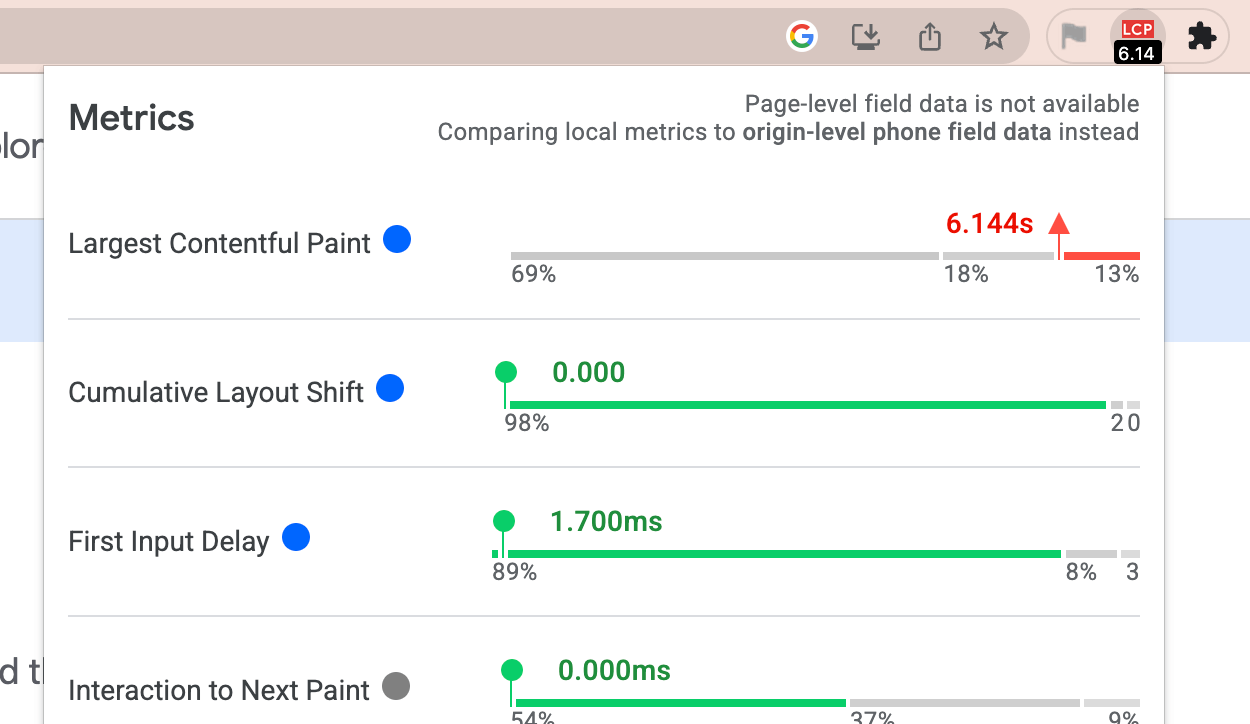
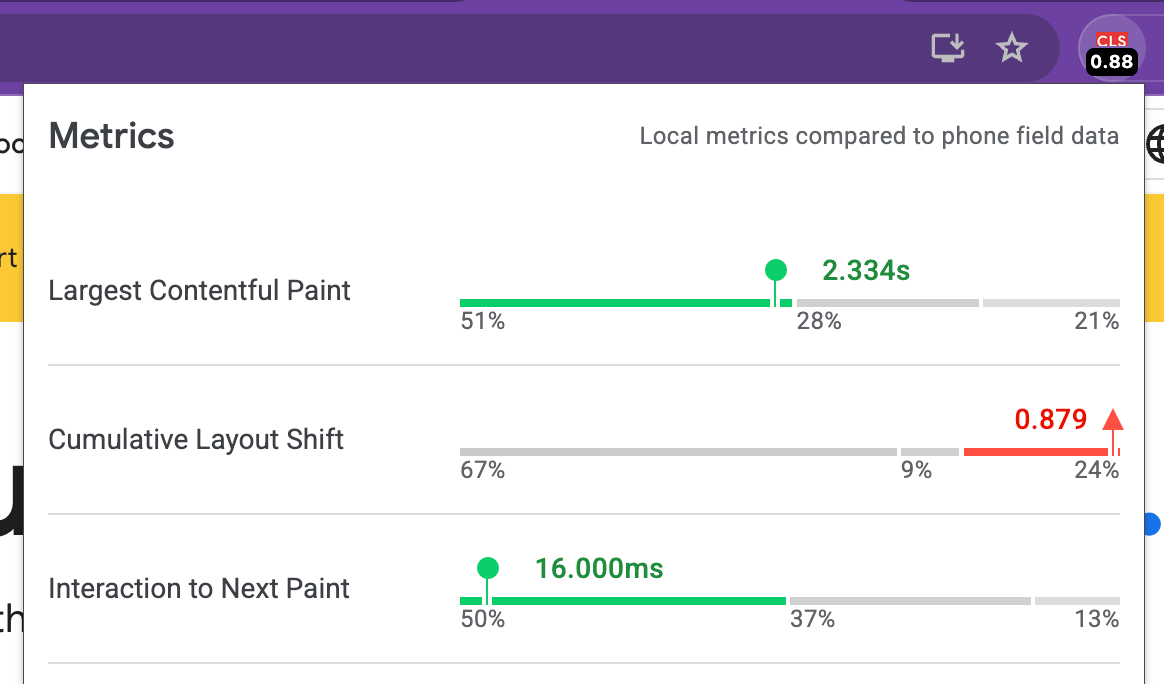
Graduate INP (#169)
* denote INP as CWV

* Apply suggestions from code review

* swap INP/FID in HUD

* slow INP icon

* Apply suggestions from code review

* updated screenshots

---------

diff --git a/src/browser_action/vitals.js b/src/browser_action/vitals.js
@@ -111,13 +111,13 @@
       overallScore = 'POOR';
       metrics.cls.pass = false;
     }
-    if (metrics.fid.value > FID_THRESHOLD) {
-      overallScore = 'POOR';
-      metrics.fid.pass = false;
-    }
     if (metrics.inp.value > INP_THRESHOLD) {
-      // INP does not affect overall score
+      overallScore = 'POOR';
       metrics.inp.pass = false;
+    }
+    if (metrics.fid.value > FID_THRESHOLD) {
+      // FID does not affect overall score
+      metrics.fid.pass = false;
     }
     if (metrics.fcp.value > FCP_THRESHOLD) {
       // FCP does not affect overall score
@@ -524,18 +524,6 @@
             <div class="lh-metric__value">${(metrics.cls.value || 0).toFixed(3)}</div>
           </div>
         </div>
-        <div class="lh-metric lh-metric--${metrics.fid.pass ? 'pass':'fail'} lh-metric--${metrics.fid.value === null ? 'waiting' : 'ready'}">
-          <div class="lh-metric__innerwrap">
-            <span class="lh-metric__title">
-              First Input Delay
-              <span class="lh-metric-state">${metrics.fid.value === null ? '(waiting for input)' : ''}</span>
-            </span>
-            <div class="lh-metric__value">${
-              metrics.fid.value === null ? '' :
-              `${metrics.fid.value.toFixed(2)}&nbsp;ms`
-            }</div>
-          </div>
-        </div>
         <div class="lh-metric lh-metric--${metrics.inp.pass ? 'pass':'fail'} lh-metric--${metrics.inp.value === null ? 'waiting' : 'ready'}">
           <div class="lh-metric__innerwrap">
             <span class="lh-metric__title">
@@ -545,6 +533,18 @@
             <div class="lh-metric__value">${
               metrics.inp.value === null ? '' :
               `${metrics.inp.value.toFixed(2)}&nbsp;ms`
+            }</div>
+          </div>
+        </div>
+        <div class="lh-metric lh-metric--${metrics.fid.pass ? 'pass':'fail'} lh-metric--${metrics.fid.value === null ? 'waiting' : 'ready'}">
+          <div class="lh-metric__innerwrap">
+            <span class="lh-metric__title">
+              First Input Delay
+              <span class="lh-metric-state">${metrics.fid.value === null ? '(waiting for input)' : ''}</span>
+            </span>
+            <div class="lh-metric__value">${
+              metrics.fid.value === null ? '' :
+              `${metrics.fid.value.toFixed(2)}&nbsp;ms`
             }</div>
           </div>
         </div>

diff --git a/service_worker.js b/service_worker.js
@@ -172,7 +172,7 @@ function badgeMetric(metric, value, tabid) {
     if (metric === 'lcp' && value <= LCP_THRESHOLD) {
       return;
     }
-    if (metric === 'fid' && value <= FID_THRESHOLD) {
+    if (metric === 'inp' && value <= INP_THRESHOLD) {
       return;
     }
 
@@ -205,9 +205,9 @@ function badgeMetric(metric, value, tabid) {
           tabId: currentTab,
         });
         break;
-      case 'fid':
+      case 'inp':
         chrome.action.setIcon({
-          path: '../../icons/slow128w-fid.png',
+          path: '../../icons/slow128w-inp.png',
           tabId: currentTab,
         });
         chrome.action.setBadgeBackgroundColor({
@@ -215,7 +215,7 @@ function badgeMetric(metric, value, tabid) {
           tabId: currentTab,
         });
         chrome.action.setBadgeText({
-          text: value.toFixed(2),
+          text: value.toFixed(0),
           tabId: currentTab,
         });
         break;
@@ -299,7 +299,7 @@ async function animateBadges(request, tabId) {
 
     await wait(delay);
     if (animationsByTabId.get(tabId) !== animationId) return;
-    badgeMetric('fid', request.metrics.fid.value, tabId);
+    badgeMetric('inp', request.metrics.inp.value, tabId);
 
     await wait(delay);
     if (animationsByTabId.get(tabId) !== animationId) return;

diff --git a/src/browser_action/popup.js b/src/browser_action/popup.js
@@ -68,12 +68,12 @@ class Popup {
       local: this._metrics.cls.value,
       background: this.background
     });
-    this.metrics.fid = new FID({
-      local: this._metrics.fid.value,
-      background: this.background
-    });
     this.metrics.inp = new INP({
       local: this._metrics.inp.value,
+      background: this.background
+    });
+    this.metrics.fid = new FID({
+      local: this._metrics.fid.value,
       background: this.background
     });
     this.metrics.fcp = new FCP({

diff --git a/src/browser_action/core.css b/src/browser_action/core.css
@@ -120,8 +120,7 @@
 .web-vitals-chrome-extension-popup .metric {
   display: grid;
   grid-template-areas: "metric-info metric-performance";
-  grid-template-columns: 1fr 2fr;
-  column-gap: 4.17rem;
+  grid-template-columns: 1fr 330px;
   align-items: center;
   border-bottom: 1px solid var(--color-dark-grey);
   height: 6.2rem;

diff --git a/README.md b/README.md
@@ -4,20 +4,21 @@
 
 <img src="media/cwv-extension-drilldown.png">
 
-This extension measures the three [Core Web Vitals](https://web.dev/vitals) metrics in a way that matches how they're measured by Chrome and reported to other Google tools (e.g. [Chrome User Experience Report](https://developers.google.com/web/tools/chrome-user-experience-report), [Page Speed Insights](https://developers.google.com/speed/pagespeed/insights/), [Search Console](https://search.google.com/search-console/about)).
+This extension measures the three [Core Web Vitals](https://web.dev/articles/vitals) metrics in a way that matches how they're measured by Chrome and reported to other Google tools (e.g. [Chrome User Experience Report](https://developer.chrome.com/docs/crux), [Page Speed Insights](https://developers.google.com/speed/pagespeed/insights/), [Search Console](https://search.google.com/search-console/about)).
 
-It supports all of the [Core Web Vitals](https://web.dev/vitals/#core-web-vitals) and leverages the [web-vitals](https://github.com/GoogleChrome/web-vitals) library under the hood to capture:
+It supports all of the [Core Web Vitals](https://web.dev/articles/vitals/#core-web-vitals) and leverages the [web-vitals](https://github.com/GoogleChrome/web-vitals) library under the hood to capture:
 
-* [Largest Contentful Paint](https://web.dev/lcp/)
-* [Cumulative Layout Shift](https://web.dev/cls/)
-* [First Input Delay](https://web.dev/fid/)
+* [Largest Contentful Paint](https://web.dev/articles/lcp)
+* [Cumulative Layout Shift](https://web.dev/articles/cls)
+* [Interaction to Next Paint](https://web.dev/articles/inp)
 
-It also supports the pending INP metric:
-* [Interaction to Next Paint](https://web.dev/inp/)
+It also supports the diagnostic metrics:
+* [Time to First Byte](https://web.dev/articles/ttfb)
+* [First Contentful Paint](https://web.dev/articles/fcp)
 
-Finally, it also supports the diagnostic metrics:
-* [Time to First Byte](https://web.dev/ttfb/)
-* [First Contentful Paint](https://web.dev/fcp/)
+And finally, it temporarily supports the following deprecated metrics:
+
+* [First Input Delay](https://web.dev/articles/fid)
 
 <h3 id="install">Installation Instructions</h3>
 
@@ -59,9 +60,9 @@ If one or more metrics are failing, the badge will animate the values of these m
 
 Clicking the Ambient badge icon will allow you to drill in to the individual metric values. In this mode, the extension will also say if a metric requires a user action.
 
-For example, Interaction to Next Paint requires a real interaction (e.g click/tap) with the page and will be in a `Waiting for input...` state until this is the case. We recommend consulting the web.dev documentation for [LCP](https://web.dev/lcp/), [CLS](https://web.dev/cls/), [FID](https://web.dev/fid/), and [INP](https://web.dev/inp/) to get an understanding of when metric values settle.
+For example, Interaction to Next Paint requires a real interaction (e.g click/tap) with the page and will be in a `Waiting for input...` state until this is the case. We recommend consulting the web.dev documentation for [LCP](https://web.dev/articles/lcp), [CLS](https://web.dev/articles/cls), [FID](https://web.dev/articles/fid), and [INP](https://web.dev/articles/inp) to get an understanding of when metric values settle.
 
-As of version 1.0.0, the popup combines your local Core Web Vitals experiences with real-user data from the field via the [Chrome UX Report](https://developers.google.com/web/tools/chrome-user-experience-report) (CrUX) [API](https://developers.google.com/web/tools/chrome-user-experience-report/api/reference). This integration gives you contextual insights to help you understand how similar your individual experiences are to other desktop users on the same page. We've also added a new option to "Compare local experiences to phone field data" instead, if needed. Note that CrUX data may not be available for some pages, in which case we try to load field data for the origin as a whole.
+As of version 1.0.0, the popup combines your local Core Web Vitals experiences with real-user data from the field via the [Chrome UX Report](https://developer.chrome.com/docs/crux) (CrUX) [API](https://developer.chrome.com/docs/crux/api). This integration gives you contextual insights to help you understand how similar your individual experiences are to other desktop users on the same page. We've also added a new option to "Compare local experiences to phone field data" instead, if needed. Note that CrUX data may not be available for some pages, in which case we try to load field data for the origin as a whole.
 
 <img src="media/cwv-extension-screenshot.png" width="75%">
 
@@ -92,8 +93,8 @@ Diagnostic info for each metric is logged as a console group prepended by the ex
 The kinds of diagnostic info varies per metric. For example, the LCP info includes:
 
 * A reference to the LCP element
-* A table of [LCP sub-part metrics](https://web.dev/optimize-lcp/#:~:text=each%20of%20these-,LCP%20sub%2Dparts,-in%20more%20detail)
-* An optional warning if the tab was [loaded in the background](https://web.dev/lcp/#:~:text=your%20analytics%20service.-,Caution,-Since%20users%20can)
+* A table of [LCP sub-part metrics](https://web.dev/articles/optimize-lcp#lcp_breakdown)
+* An optional warning if the tab was [loaded in the background](https://web.dev/articles/lcp#lcp-background)
 * The full attribution object from [web-vitals](https://github.com/GoogleChrome/web-vitals#attribution)
 
 
@@ -131,11 +132,11 @@ This extension reports metrics for your desktop or laptop machine. In many cases
 
 We are making available a set of guides for optimizing each of the Core Web Vitals metrics if you find your page is not passing a particular threshold:
 
-* [Optimize CLS](https://web.dev/optimize-cls/)
-* [Optimize LCP](https://web.dev/optimize-lcp/)
-* [Optimize FID](https://web.dev/optimize-fid/)
-* [Optimize INP](https://web.dev/optimize-inp/)
-* [Optimize TTFB](https://web.dev/optimize-ttfb/)
+* [Optimize CLS](https://web.dev/articles/optimize-cls)
+* [Optimize LCP](https://web.dev/articles/optimize-lcp)
+* [Optimize FID](https://web.dev/articles/optimize-fid)
+* [Optimize INP](https://web.dev/articles/optimize-inp)
+* [Optimize TTFB](https://web.dev/articles/optimize-ttfb)
 
 Lighthouse also includes additional actionability audits for these metrics.
 
